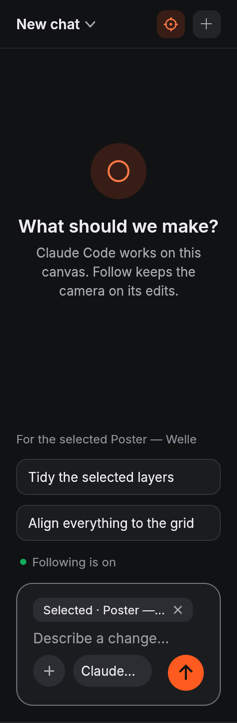
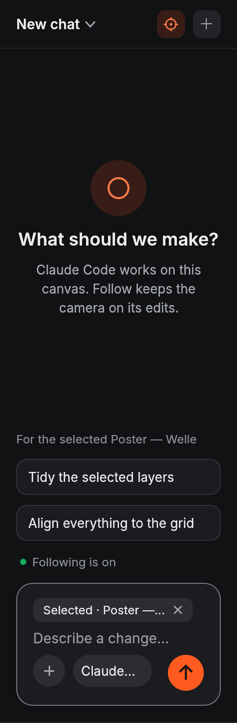
Fix AC: the A1 empty state from the design; fade and 280 px card captures
- AC2: the empty state's line wraps in the design's 248 px box (the
  panel less 32 when narrower), so at 336 px it breaks after "canvas."
  as in A1; the block (disc, 12, heading, 12, line) is centred between
  16 under the header and 14 above the selection's label or the status
  line, as the design file's "Empty state" frame (it sat ~17 px high).
  New test the_empty_state_wraps_and_sits_as_in_the_design (both themes,
  336 and 240 px); ui.inspect reports emptyRows, emptyBlock and the
  suggestions' labelRect. A1 and A7 retaken in both themes.
- AC1: the 12 px transcript fade captured scrolled to the top and to
  the bottom, both themes. It reads; unchanged.
- AC3: the run card at 280 px, Done and Undone, both themes, beside the
  design's A3 and A5: the buttons stack. The design has no card under
  336 px; reported in the captures README, not changed.
- capture.py gains quiet, fade and card modes.

Changed region(s): [[0.0591, 0.1826, 0.9156, 0.4564]]

diff --git a/docs/scrim-ports/ai-panel/ab/capture.py b/docs/scrim-ports/ai-panel/ab/capture.py
@@ -1,5 +1,7 @@
-"""capture.py APP SCRATCH OUTDIR THEME WIDTH: Fix AB7, the AI panel's design states from the real
-app. A scratch HOME and settings folder (theme and right panel width seeded; MCP on 7690, never
+"""capture.py APP SCRATCH OUTDIR THEME WIDTH [MODE]: Fix AB7, the AI panel's design states from the
+real app. MODE is `states` (the default: A1 to A6, or A7 below 300 px), `quiet` (A1 or A7 only, Fix AC2), `fade` (Fix AC1: three runs,
+then the transcript scrolled to the top and to the bottom) or `card` (Fix AC3: one run's card, Done
+and Undone). A scratch HOME and settings folder (theme and right panel width seeded; MCP on 7690, never
 7680), a stub `claude` first on PATH and allowed. Driven with ui.input like a person; each state's
 window shot saved as OUTDIR/{theme}-{state}.png, with the AI panel's rectangle in states.json."""
 import atexit, json, os, subprocess, sys, time
@@ -10,6 +12,7 @@ sys.path.insert(0, os.path.join(REPO, 'docs', 'scrim-ports', 'follow-agent', 't6
 from d3 import App
 
 app_bin, scratch, outdir, theme, width = sys.argv[1], sys.argv[2], sys.argv[3], sys.argv[4], int(sys.argv[5])
+mode = sys.argv[6] if len(sys.argv) > 6 else 'states'
 stub = os.path.join(REPO, 'crates', 'mcp', 'tests', 'stub', 'stub_agent.py')
 home, settings, bindir = (os.path.join(scratch, d) for d in ('home', 'settings', 'bin'))
 for d in (home, settings, bindir, os.path.join(home, 'Documents', 'Scrim'), outdir):
@@ -67,7 +70,7 @@ def shot(name):
     p = panel()
     path = os.path.join(outdir, f'{theme}-{name}.png')
     take(path)
-    states[name] = {'header': p.get('headerRect'), 'card': (p.get('card') or {}).get('state')}
+    states[name] = {'header': p.get('headerRect'), 'card': (p.get('card') or {}).get('state'), 'stacked': (p.get('card') or {}).get('stacked'), 'fade': p.get('fade')}
     print(name, 'saved', flush=True)
 
 
@@ -94,41 +97,78 @@ f = a.run('frame.create', {'x': 0, 'y': 0, 'width': 400, 'height': 300, 'name': 
 a.run('select.set', {'ids': [f['id']]})
 a.call('ui.set', {'home': False, 'rightTab': 'ai'})
 time.sleep(1.5)
+
+
+def send(prompt):
+    """Type the prompt into the composer and send it with ⌘↩, until a new bubble shows it went."""
+    before = panel().get('bubbles') or 0
+
+    def go():
+        c = panel().get('composer', {}).get('composerRect') or [0, 0, 0, 0]
+        click((c[0] + c[2]) / 2, c[1] + 24)
+        # ⌘A first, so a retry replaces what a missed attempt typed.
+        a.call('ui.input', {'events': [{'key': 'A', 'cmd': True}]})
+        a.call('ui.input', {'events': [{'text': prompt}]})
+        time.sleep(0.3)
+        a.call('ui.input', {'events': [{'key': 'Enter', 'cmd': True}]})
+
+    if not until(go, lambda: (panel().get('bubbles') or 0) > before):
+        raise SystemExit('the prompt was never sent')
+
+
+def finished():
+    for _ in range(120):
+        time.sleep(0.5)
+        if (panel().get('card') or {}).get('state') in ('done', 'stopped'):
+            break
+    time.sleep(1.0)
+
+
+card = lambda: panel().get('card') or {}
+if mode == 'fade':
+    for n in (1, 2, 3):
+        send(f'Build poster number {n} named Welle{n} with batches 14')
+        finished()
+
+    def wheel(dy):
+        t = panel().get('headerRect') or [0, 0, 0, 0]
+        x, y = (t[0] + t[2]) / 2, t[3] + 200
+        a.call('window.focus', {'id': 0})
+        for _ in range(12):
+            a.call('ui.input', {'events': [{'move': [x, y]}, {'scroll': [0, dy]}]})
+            time.sleep(0.1)
+        time.sleep(0.8)
+
+    wheel(-400)
+    shot('fade-bottom')
+    wheel(400)
+    shot('fade-top')
+elif mode == 'card':
+    send('Build a poster called Welle with batches 6')
+    finished()
+    shot(f'card-{width}-done')
+    until(lambda: click(*centre(card()['buttonRects'][1])), lambda: card().get('state') == 'undone')
+    shot(f'card-{width}-undone')
 # A1: + ▸ Add selection.
-until(lambda: click(*centre(panel()['composer']['plus']['rect'])), lambda: panel().get('composer', {}).get('plus', {}).get('open') is True)
+if mode in ('states', 'quiet'):
+    until(lambda: click(*centre(panel()['composer']['plus']['rect'])), lambda: panel().get('composer', {}).get('plus', {}).get('open') is True)
 rows = panel().get('composer', {}).get('plus', {}).get('menu', {}).get('rows') or []
 add = next((r for r in rows if r.get('label') == 'Add selection'), None)
-if add:
+if add and mode in ('states', 'quiet'):
     click(*centre(add['rect']))
-time.sleep(0.6)
-shot('a1-quiet' if width > 300 else 'a7-quiet-240')
-if width > 300:
+    time.sleep(0.6)
+    shot('a1-quiet' if width > 300 else 'a7-quiet-240')
+if mode == 'states' and width > 300:
     # Take the chip off; then the run: typed and sent with ⌘↩.
     chip = lambda: (panel().get('composer', {}).get('selectedChip') or {}).get('rect')
     if chip():
         until(lambda: click(chip()[2] - 15, (chip()[1] + chip()[3]) / 2), lambda: not chip())
 
-    def send():
-        c = panel().get('composer', {}).get('composerRect') or [0, 0, 0, 0]
-        click((c[0] + c[2]) / 2, c[1] + 24)
-        # ⌘A first, so a retry replaces what a missed attempt typed.
-        a.call('ui.input', {'events': [{'key': 'A', 'cmd': True}]})
-        a.call('ui.input', {'events': [{'text': 'Build a poster called Welle with batches 6 and slow 25'}]})
-        time.sleep(0.3)
-        a.call('ui.input', {'events': [{'key': 'Enter', 'cmd': True}]})
-
-    # Sent once the card is there (a click the window missed leaves the panel quiet).
-    if not until(send, lambda: panel().get('card') is not None):
-        raise SystemExit('the prompt was never sent')
+    send('Build a poster called Welle with batches 6 and slow 25')
     time.sleep(5.4)
     shot('a2-working')
-    for _ in range(90):
-        time.sleep(0.5)
-        if (panel().get('card') or {}).get('state') in ('done', 'stopped'):
-            break
-    time.sleep(1.0)
+    finished()
     shot('a3-done')
-    card = lambda: panel().get('card') or {}
     until(lambda: click(*centre(card()['steps']['rect'])), lambda: card().get('steps', {}).get('open') is True)
     shot('a4-steps-open')
     until(lambda: click(*centre(card()['steps']['rect'])), lambda: card().get('steps', {}).get('open') is False)
@@ -144,7 +184,7 @@ if width > 300:
     take(path)
     states['a6-plus-menu'] = {'header': p.get('headerRect'), 'menu': p.get('composer', {}).get('plus', {}).get('open')}
     print('a6-plus-menu saved', flush=True)
-json.dump(states, open(os.path.join(outdir, f'{theme}-{width}-states.json'), 'w'), indent=1)
+json.dump(states, open(os.path.join(outdir, f'{theme}-{width}-{mode}-states.json'), 'w'), indent=1)
 a.call('window.focus', {'id': 0})
 try:
     a.call('app.quit', {})

diff --git a/crates/ui-egui/src/ai_panel.rs b/crates/ui-egui/src/ai_panel.rs
@@ -43,8 +43,11 @@ pub struct Seen {
     pub follow: String,
     pub popover: Option<Value>,
     pub empty_state: bool,
-    /// The empty state's line, naming the agent (Fix AB5).
+    /// The empty state's line, naming the agent (Fix AB5); its rows as wrapped and the block's
+    /// rectangle, disc to line (Fix AC2).
     pub empty_line: String,
+    pub empty_rows: Vec<String>,
+    pub empty_block: Option<Rect>,
     /// Where the Follow agents button was drawn; the setting off (the crosshair dimmed) and its
     /// tooltip (Fix V3).
     pub follow_rect: Option<Rect>,
@@ -158,7 +161,11 @@ pub fn show(app: &mut FigApp, ui: &mut Ui) {
         // The agent the line names: the one chosen, else the default (Fix AB5).
         let id = app.ui.agent_view.chat.agent.clone().unwrap_or_else(|| figcraft_engine::cmd::chat::DEFAULT_AGENT.to_string());
         let agent = figcraft_engine::cmd::agent_clients::headless::profile(&id).map_or(id, |p| p.name.clone());
-        empty_state(ui, &t, below, &agent, &mut seen);
+        // What follows the empty state: the selection's label, else the status line, where the
+        // composer drew them (it is drawn first); else the visible area's bottom.
+        let c = &app.ui.agent_view.chat.seen.composer;
+        let next = c["suggestions"]["labelRect"][1].as_f64().or_else(|| c["statusRect"][1].as_f64()).map_or(below.max.y, |y| y as f32);
+        empty_state(ui, &t, below, next, &agent, &mut seen);
     } else {
         super::run_card::transcript(app, ui, &lines, below.height().max(120.0), &mut seen);
     }
@@ -343,10 +350,11 @@ fn popover(app: &mut FigApp, ui: &mut Ui, t: &Tokens, w: f32) -> Value {
 /// The empty panel (Fix AB5, the design's A1): a 56 px accent-soft disc with an accent-text ring,
 /// "What should we make?" (SemiBold 18) and a line naming the agent (13, text-2), centred and
 /// wrapped to the panel's width less 32.
-fn empty_state(ui: &mut Ui, t: &Tokens, below: Rect, agent: &str, seen: &mut Seen) {
+fn empty_state(ui: &mut Ui, t: &Tokens, below: Rect, next: f32, agent: &str, seen: &mut Seen) {
     let roles = super::panel_theme::roles(t);
     let (r, _) = ui.allocate_exact_size(vec2(ui.available_width(), below.height().max(160.0)), Sense::hover());
-    let wrap = (r.width() - 32.0).max(80.0);
+    // The design's line box: 248 wide, or the panel less 16 each side when that is narrower (Fix AC2).
+    let wrap = (r.width() - 32.0).clamp(80.0, 248.0);
     let centred = |text: &str, font: egui::FontId, color: egui::Color32, line: Option<f32>| {
         let mut job = egui::text::LayoutJob::single_section(
             text.to_string(),
@@ -361,16 +369,21 @@ fn empty_state(ui: &mut Ui, t: &Tokens, below: Rect, agent: &str, seen: &mut See
     let body = centred(&line, regular(13.0), roles.text_secondary, Some(13.0 * 1.45));
     seen.fonts.insert("emptyHeading", semibold(18.0));
     seen.fonts.insert("emptyLine", regular(13.0));
+    seen.empty_rows = body.rows.iter().map(|row| row.text().trim_end().to_string()).collect();
     seen.empty_line = line;
-    let block = 56.0 + 16.0 + heading.size().y + 8.0 + body.size().y;
-    let top = r.center().y - 12.0 - block / 2.0;
+    // As in the design's A1 and A7: the disc, 12, the heading, 12, the line; centred between 16
+    // under the header and 14 above what follows (the selection's suggestions, else the status
+    // line) (Fix AC2; it sat 12 above the middle).
+    let block = 56.0 + 12.0 + heading.size().y + 12.0 + body.size().y;
+    let top = (below.min.y + 16.0 + next - 14.0) / 2.0 - block / 2.0;
     let c = pos2(r.center().x, top + 28.0);
     ui.painter().circle_filled(c, 28.0, roles.empty_disc);
     ui.painter().circle_stroke(c, 9.0, Stroke::new(2.0, roles.link));
     seen.theme.insert("emptyDisc", roles.empty_disc);
     seen.theme.insert("emptyRing", roles.link);
-    let heading_r = Rect::from_center_size(pos2(r.center().x, top + 56.0 + 16.0 + heading.size().y / 2.0), heading.size());
-    let body_r = Rect::from_center_size(pos2(r.center().x, heading_r.max.y + 8.0 + body.size().y / 2.0), body.size());
+    let heading_r = Rect::from_center_size(pos2(r.center().x, top + 56.0 + 12.0 + heading.size().y / 2.0), heading.size());
+    let body_r = Rect::from_center_size(pos2(r.center().x, heading_r.max.y + 12.0 + body.size().y / 2.0), body.size());
+    seen.empty_block = Some(Rect::from_min_max(pos2(r.min.x, top), pos2(r.max.x, body_r.max.y)));
     ui.put(heading_r, egui::Label::new(heading));
     ui.put(body_r, egui::Label::new(body));
 }
@@ -431,6 +444,8 @@ pub fn inspect(app: &FigApp) -> Value {
         "popover": s.popover,
         "emptyState": s.empty_state.then(|| tr("What should we make?")),
         "emptyLine": s.empty_state.then(|| s.empty_line.clone()),
+        "emptyRows": s.empty_state.then(|| s.empty_rows.clone()),
+        "emptyBlock": s.empty_block.map(|r| [r.min.x, r.min.y, r.max.x, r.max.y]),
         "banner": s.banner,
         "bubbles": s.bubbles,
         "card": s.card,

diff --git a/crates/ui-egui/src/ai_suggest_tests.rs b/crates/ui-egui/src/ai_suggest_tests.rs
@@ -42,6 +42,52 @@ fn the_empty_state_names_the_agent_and_wraps_to_the_panel() {
     assert!(panel(&u)["emptyLine"].as_str().unwrap().starts_with("Codex works on this canvas"));
 }
 
+/// Fix AC2, against the design's A1 and A7: the line's box is 248 wide, or the panel less 16 each
+/// side when narrower, so at 336 px it breaks after "canvas." (it broke after "Follow"), and every
+/// row fits; the block (disc, 12, heading, 12, line) is centred between 16 under the header and 14
+/// above what follows: the selection's label, else the status line. Both themes. It fails on the
+/// old layout (a 272 px line, and the block 12 above the middle).
+#[test]
+fn the_empty_state_wraps_and_sits_as_in_the_design() {
+    for dark in [false, true] {
+        for (w, selected) in [(336.0, true), (240.0, true), (336.0, false)] {
+            let (mut u, _) = window();
+            u.app.session.prefs.theme = if dark { "dark" } else { "light" }.into();
+            u.app.ui.right_width = w;
+            if !selected {
+                u.app.run("select.set", json!({"ids": []}));
+            }
+            u.frame(vec![]);
+            u.frame(vec![]);
+            let p = panel(&u);
+            let rows: Vec<&str> = p["emptyRows"].as_array().unwrap().iter().map(|r| r.as_str().unwrap()).collect();
+            if w > 300.0 {
+                assert_eq!(rows, ["Claude Code works on this canvas.", "Follow keeps the camera on its edits."], "{dark} {w}");
+            } else {
+                // The design's A7 breaks "…this / canvas. Follow keeps the camera / on its edits.";
+                // egui sets the middle row a little wider than 208, so "camera" goes to the third.
+                assert!(rows.len() == 3 && rows[0] == "Claude Code works on this", "{dark} {w}: three rows: {rows:?}");
+            }
+            let f = |v: &Value| v.as_f64().unwrap() as f32;
+            let font = egui::FontId::new(13.0, egui::FontFamily::Proportional);
+            for row in &rows {
+                let width = u.ctx.fonts_mut(|fo| fo.layout_no_wrap(row.to_string(), font.clone(), egui::Color32::WHITE).size().x);
+                assert!(width <= (w - 32.0).min(248.0) + 0.5, "{dark} {w}: {row:?} is {width} wide");
+            }
+            let header = f(&p["headerRect"][3]);
+            let next = if selected { f(&p["composer"]["suggestions"]["labelRect"][1]) } else { f(&p["composer"]["statusRect"][1]) };
+            let b = &p["emptyBlock"];
+            let (top, bottom) = (f(&b[1]), f(&b[3]));
+            let want = (header + 16.0 + next - 14.0) / 2.0;
+            assert!(
+                ((top + bottom) / 2.0 - want).abs() <= 2.0,
+                "{dark} {w} {selected}: centred at {} for {want} ({b} under {header}, over {next})",
+                (top + bottom) / 2.0
+            );
+        }
+    }
+}
+
 /// With a selection on the quiet panel: "For the selected Poster" and the two rows; a row puts its
 /// words in the composer and focuses it, and sends nothing. Without a selection: none.
 #[test]

diff --git a/docs/scrim-ports/ai-panel/ab/crop.py b/docs/scrim-ports/ai-panel/ab/crop.py
@@ -1,5 +1,5 @@
 """crop.py SHOTS OUT: each window shot capture.py saved (2x), cut to the AI panel (from the header's
-left, top and right edges recorded at shot time in {theme}-{width}-states.json, to the window's
+left, top and right edges recorded at shot time in {theme}-{width}-{mode}-states.json, to the window's
 bottom) and scaled to 1x, as OUT/{theme}-{state}.png. The window can grow between runs, so each
 shot is cut by its own size."""
 import json, os, subprocess, sys

diff --git a/crates/ui-egui/src/ai_suggest.rs b/crates/ui-egui/src/ai_suggest.rs
@@ -49,7 +49,7 @@ pub fn for_selection(app: &FigApp, ui: &mut Ui, ro: &Roles) -> (Option<String>, 
         rows.push(json!({"text": text, "rect": [r.min.x, r.min.y, r.max.x, r.max.y]}));
     }
     ui.add_space(10.0);
-    (picked, json!({"label": label, "rows": rows}))
+    (picked, json!({"label": label, "labelRect": [lr.min.x, lr.min.y, lr.max.x, lr.max.y], "rows": rows}))
 }
 
 /// The chips under a finished run's card, 8 apart, wrapping to a second row when the panel is

diff --git a/docs/design/ai-panel.md b/docs/design/ai-panel.md
@@ -23,9 +23,9 @@ Rebuilt to Scrim's AI panel design, in dark and light; the reference was frames 
 - **The body:**
   - **Empty** (Fix AB5, the design's A1 and A7):
     - a 56 px accent-soft disc (`t.accent_tint`) with an accent-text ring (`readable_mark` of `t.ai_accent_text`, 2 px, 9 px radius);
-    - 16 below it, "What should we make?" (SemiBold 18);
-    - 8 below that, "{agent} works on this canvas. Follow keeps the camera on its edits." (13, 145 %, text-2). The agent is the one chosen.
-    - Both are centred and wrapped to the panel's width less 32 (no fixed width). The block sits 12 above the middle of the space between the header's rule and the composer.
+    - 12 below it, "What should we make?" (SemiBold 18);
+    - 12 below that, "{agent} works on this canvas. Follow keeps the camera on its edits." (13, 145 %, text-2). The agent is the one chosen.
+    - Both are centred. The line wraps in the design's 248 px box, or the panel's width less 32 when that is narrower: at 336 px it breaks after "canvas.", at 240 px in three rows. The block is centred between 16 under the header's rule and 14 above what follows it (the selection's label, else the status line). All from the design file's A1 and A7 frames (Fix AC2; until then the gaps were 16 and 8, the line as wide as the panel less 32, and the block 12 above the middle, about 17 px higher).
   - **Suggestions, only where they apply** (Fix AB5, `ai_suggest.rs`). A suggestion puts its words in the composer and focuses it (`chat.use-suggestion`); it never sends.
     - **With a selection, on the quiet panel** (no conversation yet, no run going): "For the selected {name}" (12, text-3) and two full-width rows, "Tidy the selected layers" and "Align everything to the grid" (surface fill, border, radius 10, 36 high, 6 apart). They sit just above the status line.
     - **After a run finishes** (done; not while it works, not once undone or stopped): two chips under its card, "Tidy spacing" and "Make a variation" (raised fill, 30 high, 8 apart). The second moves to a row of its own when the panel is too narrow.
@@ -172,6 +172,7 @@ Rebuilt to Scrim's AI panel design, in dark and light; the reference was frames 
 33. **Inline code is a bordered box** (Fix AB7): each span gets its own box on the raised fill (`code_fill`, the selected row's fill) with a 1 px edge (`code_edge`, the field's edge), one per row it covers, painted behind the glyphs. It was a TextFormat background in `t.field`, which barely showed on the dark panel. egui 0.36 keeps a glyph's section private, so the boxes come from char indices.
 34. **The + menu sits above the status line** (Fix AB7), 8 clear of it, its left edge at the composer box's, in a layer of its own bounded only by the window's top. It was placed from the composer's top and covered "Following is on". It reads the status line's rectangle from the previous frame (the composer is drawn after the button).
 35. **The selection's rows and the Undone toast are as wide as the composer box** (Fix AB7), as in the design; both were inset 16 more on each side. A disabled card button dims its edge as well as its label, and the open Steps row's chevron points up (both as in the design's A5 and A4).
+36. **The empty state's line has a 248 px box** (Fix AC2), the design's, so it keeps the design's two rows at 336 px; it was as wide as the panel less 32. Below 280 px it is the panel less 32, as before. At 240 px the design breaks "…this / canvas. Follow keeps the camera / on its edits."; egui sets the middle row a little wider than 208 px, so "camera" goes to the third row.
 
 ## Tests
 
@@ -252,6 +253,7 @@ Rebuilt to Scrim's AI panel design, in dark and light; the reference was frames 
   - `attach_image_from_the_plus_menu`; `the_rows_controls_have_their_spanish_names`.
   - `the_selection_button_adds_the_layers_names_and_ids` (now the chip, its ×, and the line sent with the prompt); `the_image_button_shows_only_for_an_agent_whose_cli_takes_one` (now the menu row's state).
   - Fix Z6's chip tests and AA3's agent-menu fallback test are gone with the chips.
+- AC2: `ai_suggest_tests.rs` › `the_empty_state_wraps_and_sits_as_in_the_design`, both themes, at 336 and 240 px with a selection and at 336 px without: the rows as wrapped (at 336, after "canvas."; at 240, three rows, the first "Claude Code works on this"), each row within the box, and the block's centre within 2 px of the midpoint between 16 under the header and 14 above the selection's label or the status line. It fails on the old layout on each count (the line broke after "Follow"; the block sat 17 px high). `ui.inspect` › `agent.aiPanel` reports `emptyRows` and `emptyBlock`, and the suggestions their `labelRect`.
 - AB7: `ai_reply_tests.rs` › `inline_code_has_a_bordered_raised_box` (one box per span, the edge at 3:1 on the panel and the code at 4.5:1 on its fill, both themes, every accent); `ai_panel_z_tests.rs` › `the_plus_menu_clears_the_status_line`; the full-width rows in `ai_suggest_tests.rs`; the toast as wide as the composer in `ai_toast_tests.rs`; the chevron's direction in `ai_card_tests.rs`. The captures, side by side with the design and every difference listed: `docs/scrim-ports/ai-panel/ab/`.
 - `ai_suggest_tests.rs` (AB5): the empty state names the chosen agent and wraps inside the panel at 240 and 336 px, with the accent-soft disc and accent-text ring. The selection's rows show with a selection, sit just above the composer, fill and focus the field and send nothing, and are gone without a selection. A finished run's two chips are not shown while it works, fill the composer without sending, and go once undone.
 - `chat_run_tests.rs` (Z7, engine):

diff --git a/docs/scrim-ports/ai-panel/ab/README.md b/docs/scrim-ports/ai-panel/ab/README.md
@@ -7,11 +7,11 @@ The seven states of the design's page "AI panel — A+B" (`../ab-design/`, expor
 
 ## How they were made
 
-1. `capture.py APP SCRATCH OUTDIR THEME WIDTH` drives the app like a person (`ui.input` clicks, typing, ⌘↩), once per theme at 336 px (A1 to A6) and once at 240 px (A7). It refuses to run unless the settings folder is a scratch one and MCP is not on 7680. The run is the stub's "batches 6 and slow 25": six batches of three rectangles, slowly, so A2 is caught while it works.
+1. `capture.py APP SCRATCH OUTDIR THEME WIDTH [MODE]` (MODE `states`, `quiet`, `fade` or `card`) drives the app like a person (`ui.input` clicks, typing, ⌘↩), once per theme at 336 px (A1 to A6) and once at 240 px (A7). It refuses to run unless the settings folder is a scratch one and MCP is not on 7680. The run is the stub's "batches 6 and slow 25": six batches of three rectangles, slowly, so A2 is caught while it works.
 2. `crop.py SHOTS OUT` cuts each window shot to the panel, using the header's rectangle recorded at shot time.
 3. `sidebyside.swift` (`swiftc sidebyside.swift -o sidebyside`) puts each next to its design export.
 
-A1 to A6 were retaken after the last AB7 fix, in both themes; A7 is from the run before it (nothing A7 shows changed since). Clicks can miss while another app is in front, so each step is retried until `ui.inspect` shows it took, and each shot waits for its file.
+A2 to A6 were retaken after the last AB7 fix, in both themes; A1 and A7 after Fix AC2. Clicks can miss while another app is in front, so each step is retried until `ui.inspect` shows it took, and each shot waits for its file.
 
 The window is 1440 × 900 points, so the panel below the header is about 720 high, where the design's frame is 900: everything at the bottom (the composer, the status line, the toast, the + menu) sits higher in the captures. That is the window, not the panel.
 
@@ -43,6 +43,22 @@ The window is 1440 × 900 points, so the panel below the header is about 720 hig
 - A5's Select layers, off after Undo run, dimmed only its label; its edge is now dimmed too, as in the design.
 - A4's chevron pointed down while the steps are open; it points up, as in the design (`the_steps_open_and_close_and_start_closed`).
 
+**Fixed in AC2** (A1 and A7 retaken in both themes):
+- A1's empty line broke after "Follow" at 336 px; it now breaks after "canvas.", as in the design: the line wraps in the design's 248 px box, or the panel less 32 when narrower.
+- A1's block sat about 17 px higher than the design's rule puts it; it is now centred between 16 under the header and 14 above the suggestions' label (the design's "Empty state" frame), with the design's 12 and 12 between disc, heading and line (they were 16 and 8). `the_empty_state_wraps_and_sits_as_in_the_design`.
+
 **Not intended, left as they are:**
-- **A1: the empty state's line** wraps at the panel's width less 32, so at 336 px it breaks after "Follow"; the design breaks after "canvas.", a narrower block. At 240 px both break alike.
-- **A1: the empty state sits about 18 px higher** in the space above the suggestions than in the design (it is centred 12 above the middle).
+- **A7: one word.** At 240 px the design breaks "…this / canvas. Follow keeps the camera / on its edits."; the app's middle row is a little wider than 208 px in egui's layout, so "camera" goes to the third row.
+- **The block's height on the page** differs from the design's because the window is shorter (723 px under the header against 852); its place relative to the header and the suggestions is the design's.
+
+## AC1: the transcript's fade
+
+`{theme}-fade-top.png` and `{theme}-fade-bottom.png`: three runs (`capture.py … 336 fade`), then the transcript scrolled to the top (975 px more below) and to the bottom. At the top, the 12 px fade (`ui.inspect` › `fade`, y 744 to 756) dissolves the last visible line, the reply's cost line, into the panel just above the status line; at the bottom there is none. **It reads in both themes; nothing changed.**
+
+Seen on the way: only the latest run has a card. The two earlier runs show their progress lines ("Agent: made 3 layers", one per batch) above their replies, as the transcript did before the card (`ai_run_card.rs` keeps one `last_run`). Not changed here.
+
+## AC3: the card at 280 px
+
+`{theme}-card-280-done.png` and `{theme}-card-280-undone.png`, each beside the design's A3 or A5 (`side-…`, `capture.py … 280 card`). Below 300 px Select layers and Undo run (or Redo run) stack, each the card's full width (`ui.inspect` › `card.stacked`: true in all four). After Undo run, Select layers is off with its edge and label dimmed, as in A5.
+
+**Against the design's intent:** the design has no card narrower than 336 px, so the stacking is the app's own rule (Fix Y2, decision in `docs/design/ai-panel.md`). At 280 px the design's side-by-side pair would still fit (each half about 105 px, "Select layers" needing about 103 with its 12 px padding), so the app stacks where the design's layout wouldn't have to. Reported, not changed.
